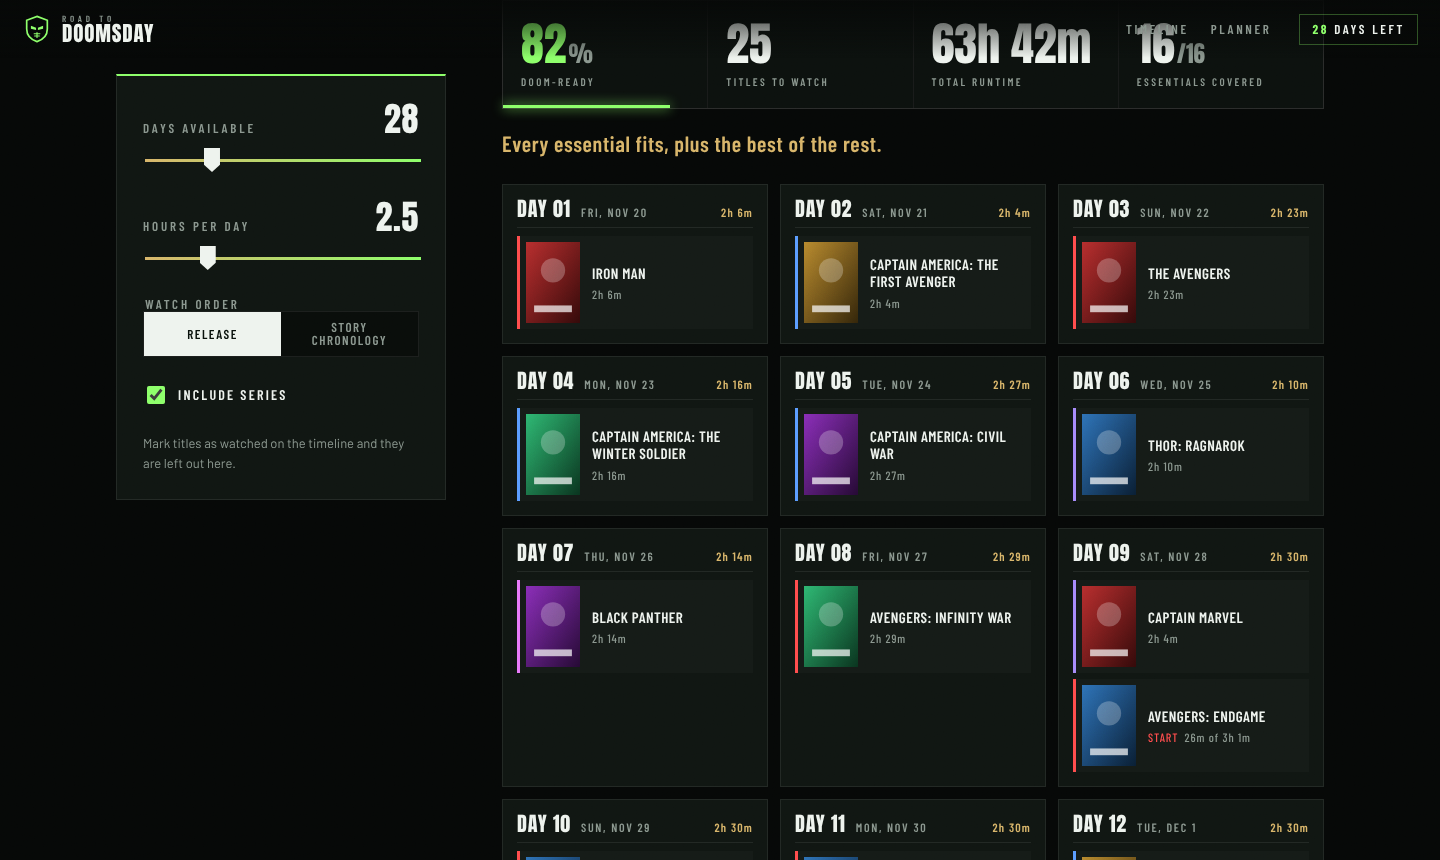
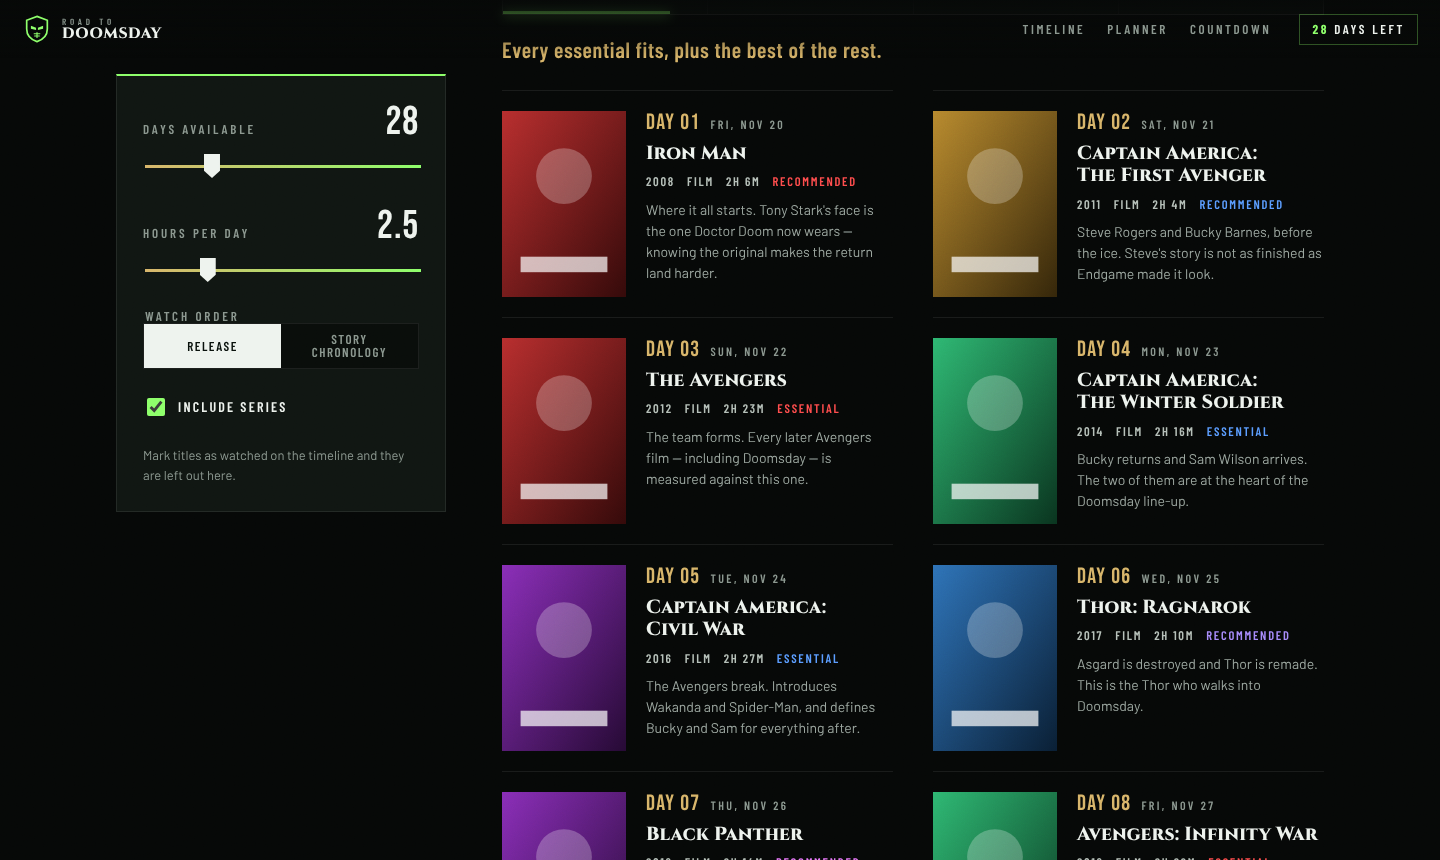
New typefaces and a poster listing for the watch plan
Headings move to Cinzel, numbers to Bebas Neue. The plan is now a
listing: large poster, day, title, details and why it matters.

Claude-Session: https://claude.ai/code/session_017rtG2dztGkZ4S7sDU2kgCq

diff --git a/src/styles.css b/src/styles.css
@@ -7,7 +7,9 @@
   --line: rgba(255, 255, 255, 0.08);
   --doom: #8dff6a;
   --gold: #d8b56a;
-  --display: "Anton", "Impact", "Haettenschweiler", "Arial Narrow Bold", sans-serif;
+  /* Headings: a chiselled, regal serif. Numbers: a tall poster face. */
+  --display: "Cinzel", "Trajan Pro", "Times New Roman", serif;
+  --num: "Bebas Neue", "Anton", "Impact", sans-serif;
   --cond: "Barlow Condensed", "Arial Narrow", sans-serif;
   --body: "Barlow", system-ui, -apple-system, "Segoe UI", sans-serif;
   --nav-h: 58px;
@@ -40,7 +42,7 @@ h1, h2, h3, h4, p { margin: 0; }
 .small { font-size: 13px; }
 
 .kicker {
-  font: 600 13px/1 var(--cond);
+  font: 600 12px/1.3 var(--display);
   letter-spacing: 0.32em;
   text-transform: uppercase;
   color: var(--gold);
@@ -90,7 +92,7 @@ h1, h2, h3, h4, p { margin: 0; }
 .brand { display: flex; align-items: center; gap: 10px; color: var(--doom); }
 .brand-text { display: grid; line-height: 1; color: var(--ink); }
 .brand-text small { font: 600 9px/1 var(--cond); letter-spacing: 0.42em; text-transform: uppercase; color: var(--dim); }
-.brand-text b { font: 400 21px/1 var(--display); letter-spacing: 0.04em; text-transform: uppercase; }
+.brand-text b { font: 800 15px/1 var(--display); letter-spacing: 0.04em; text-transform: uppercase; }
 .nav nav { display: flex; gap: 22px; margin-left: auto; }
 .nav nav a, .nav-count {
   font: 600 13px/1 var(--cond); letter-spacing: 0.2em; text-transform: uppercase; color: var(--dim);
@@ -132,11 +134,11 @@ h1, h2, h3, h4, p { margin: 0; }
 .hero-rest { display: grid; justify-items: center; gap: 22px; animation: fadeUp 1.1s 2.3s ease-out both; }
 .wordmark { display: grid; justify-items: center; line-height: 0.86; text-transform: uppercase; }
 .wm-top {
-  font: 600 clamp(15px, 2.4vw, 28px)/1 var(--cond); letter-spacing: 0.9em; margin-right: -0.9em;
+  font: 600 clamp(13px, 1.9vw, 24px)/1 var(--display); letter-spacing: 0.9em; margin-right: -0.9em;
   color: var(--ink); margin-bottom: clamp(8px, 1.4vw, 18px);
   animation: fadeUp 1.2s 1.7s ease-out both;
 }
-.wm-main { display: flex; font: 400 clamp(68px, 17.5vw, 270px)/0.86 var(--display); letter-spacing: 0.005em; filter: drop-shadow(0 8px 30px rgba(0, 0, 0, 0.75)); }
+.wm-main { display: flex; font: 900 clamp(38px, 11.4vw, 184px)/0.95 var(--display); letter-spacing: 0.005em; filter: drop-shadow(0 8px 30px rgba(0, 0, 0, 0.75)); }
 .wm-main span {
   background: linear-gradient(180deg, #ffffff 8%, #d4d4d0 40%, #77776f 53%, #ecece8 61%, #94948c 100%);
   -webkit-background-clip: text; background-clip: text; color: transparent;
@@ -145,9 +147,9 @@ h1, h2, h3, h4, p { margin: 0; }
 
 .count { display: flex; gap: clamp(10px, 2.4vw, 30px); margin-top: 6px; }
 .count-cell { display: grid; gap: 6px; min-width: clamp(58px, 9vw, 104px); padding-top: 12px; border-top: 1px solid rgba(141, 255, 106, 0.45); }
-.count-cell b { font: 400 clamp(34px, 5.4vw, 68px)/1 var(--display); font-variant-numeric: tabular-nums; }
+.count-cell b { font: 400 clamp(40px, 6vw, 78px)/1 var(--num); font-variant-numeric: tabular-nums; }
 .count-cell span { font: 600 11px/1 var(--cond); letter-spacing: 0.3em; text-transform: uppercase; color: var(--dim); }
-.count-over { font: 400 40px/1 var(--display); text-transform: uppercase; color: var(--doom); }
+.count-over { font: 800 30px/1 var(--display); text-transform: uppercase; color: var(--doom); }
 .cta { display: flex; flex-wrap: wrap; justify-content: center; gap: 12px; margin-top: 10px; }
 .scroll-cue { position: absolute; bottom: 22px; left: 50%; width: 22px; height: 36px; margin-left: -11px; border: 1px solid rgba(255, 255, 255, 0.35); border-radius: 12px; }
 .scroll-cue i { position: absolute; left: 50%; top: 7px; width: 2px; height: 7px; margin-left: -1px; background: var(--doom); animation: cue 1.8s ease-in-out infinite; }
@@ -156,7 +158,7 @@ h1, h2, h3, h4, p { margin: 0; }
 /* ── The tree ────────────────────────────────────────────────────────────── */
 .tree-section { position: relative; padding: clamp(70px, 9vw, 110px) 0 60px; }
 .tree-head { display: flex; flex-wrap: wrap; align-items: flex-end; justify-content: space-between; gap: 18px; padding: 0 clamp(16px, 3vw, 40px); margin-bottom: 46px; }
-.tree-head h2 { font: 400 clamp(30px, 4.4vw, 56px)/1 var(--display); text-transform: uppercase; letter-spacing: 0.02em; }
+.tree-head h2 { font: 800 clamp(22px, 3.1vw, 40px)/1.1 var(--display); text-transform: uppercase; letter-spacing: 0.02em; }
 .tree-head p { margin-top: 10px; color: var(--dim); font-size: 15px; }
 .seg small { margin-left: 4px; font-size: 0.85em; opacity: 0.55; }
 
@@ -192,9 +194,9 @@ h1, h2, h3, h4, p { margin: 0; }
   outline: 1px solid rgba(255, 255, 255, 0.14); outline-offset: -1px;
   transition: transform 0.25s cubic-bezier(0.2, 0.8, 0.2, 1), box-shadow 0.25s;
 }
-.art i { font: 400 15px/1 var(--display); font-style: normal; letter-spacing: 0.06em; color: rgba(255, 255, 255, 0.4); }
+.art i { font: 400 17px/1 var(--num); font-style: normal; letter-spacing: 0.06em; color: rgba(255, 255, 255, 0.4); }
 .art img { position: absolute; inset: 0; width: 100%; height: 100%; object-fit: cover; animation: fadeIn 0.5s both; }
-.art .num { position: absolute; z-index: 1; left: 0; top: 0; min-width: 24px; padding: 4px 6px 3px; font: 400 15px/1 var(--display); font-style: normal; letter-spacing: 0.02em; text-align: center; color: #06120a; background: #fff; box-shadow: 2px 2px 10px rgba(0, 0, 0, 0.6); }
+.art .num { position: absolute; z-index: 1; left: 0; top: 0; min-width: 24px; padding: 4px 6px 3px; font: 400 17px/1 var(--num); font-style: normal; letter-spacing: 0.02em; text-align: center; color: #06120a; background: #fff; box-shadow: 2px 2px 10px rgba(0, 0, 0, 0.6); }
 .tile.lit .num, .tile:hover .num { background: var(--doom); }
 .art u { position: absolute; z-index: 1; right: 0; top: 0; padding: 2px 4px; font: 600 10px/1 var(--body); text-decoration: none; color: #06120a; background: var(--doom); }
 .tile b {
@@ -217,7 +219,7 @@ h1, h2, h3, h4, p { margin: 0; }
 }
 .doom:hover, .doom.sel { transform: translate(-50%, -50%) scale(1.05); }
 .doom small { font: 600 10px/1 var(--cond); letter-spacing: 0.44em; margin-right: -0.44em; color: var(--ink); }
-.doom b { font: 400 clamp(18px, 2vw, 27px)/1 var(--display); color: var(--doom); }
+.doom b { font: 800 clamp(12px, 1.2vw, 15px)/1 var(--display); color: var(--doom); }
 .doom span { font: 600 9px/1 var(--cond); letter-spacing: 0.22em; color: var(--gold); }
 
 .hover-card {
@@ -226,7 +228,7 @@ h1, h2, h3, h4, p { margin: 0; }
   box-shadow: 0 18px 50px rgba(0, 0, 0, 0.7); animation: fadeIn 0.18s both;
 }
 .hover-card.flip { transform: translateX(-100%); }
-.hover-card b { font: 400 20px/1.05 var(--display); text-transform: uppercase; letter-spacing: 0.02em; }
+.hover-card b { font: 800 15px/1.2 var(--display); text-transform: uppercase; letter-spacing: 0.02em; }
 .hover-card span { font: 600 11px/1 var(--cond); letter-spacing: 0.18em; text-transform: uppercase; color: var(--gold); }
 .hover-card p { font-size: 13.5px; line-height: 1.45; color: #c4cdc6; }
 @media (hover: none) { .hover-card { display: none; } }
@@ -249,7 +251,7 @@ h1, h2, h3, h4, p { margin: 0; }
 .drawer-x:hover { color: var(--ink); }
 .drawer-scroll { flex: 1; overflow-y: auto; padding: 34px 28px 24px; animation: rise 0.5s both; }
 .drawer-lane { font: 700 12px/1 var(--cond); letter-spacing: 0.3em; text-transform: uppercase; color: var(--c); }
-.drawer h3 { margin: 12px 0 14px; font: 400 clamp(30px, 5vw, 40px)/1 var(--display); text-transform: uppercase; letter-spacing: 0.01em; text-wrap: balance; }
+.drawer h3 { margin: 12px 0 14px; font: 800 clamp(22px, 3.4vw, 28px)/1.15 var(--display); text-transform: uppercase; letter-spacing: 0.01em; text-wrap: balance; }
 .drawer-meta { display: flex; flex-wrap: wrap; gap: 6px; }
 .drawer-meta span { padding: 5px 9px; border: 1px solid var(--line); font: 600 12px/1 var(--cond); letter-spacing: 0.14em; text-transform: uppercase; color: #c2ccc5; }
 .weight { display: flex; align-items: center; gap: 12px; margin-top: 18px; font: 700 12px/1 var(--cond); letter-spacing: 0.2em; text-transform: uppercase; color: var(--c); }
@@ -273,12 +275,12 @@ h1, h2, h3, h4, p { margin: 0; }
 /* ── Planner ─────────────────────────────────────────────────────────────── */
 .planner { position: relative; padding: clamp(70px, 10vw, 130px) clamp(18px, 4vw, 56px) 90px; max-width: 1320px; margin: 0 auto; }
 .sec-head { display: grid; gap: 14px; margin-bottom: 44px; }
-.sec-head h2 { font: 400 clamp(40px, 7vw, 88px)/0.95 var(--display); text-transform: uppercase; text-wrap: balance; }
+.sec-head h2 { font: 800 clamp(28px, 4.8vw, 62px)/1.05 var(--display); text-transform: uppercase; text-wrap: balance; }
 .planner-grid { display: grid; grid-template-columns: 330px 1fr; gap: clamp(24px, 4vw, 56px); align-items: start; }
 .controls { position: sticky; top: calc(var(--nav-h) + 16px); display: grid; gap: 26px; padding: 26px; background: var(--panel); border: 1px solid var(--line); border-top: 2px solid var(--doom); }
 .slider { display: grid; gap: 10px; }
 .slider > span, fieldset legend { display: flex; justify-content: space-between; align-items: baseline; width: 100%; font: 600 13px/1 var(--cond); letter-spacing: 0.22em; text-transform: uppercase; color: var(--dim); }
-.slider b { font: 400 34px/1 var(--display); color: var(--ink); letter-spacing: 0.02em; }
+.slider b { font: 400 40px/1 var(--num); color: var(--ink); letter-spacing: 0.02em; }
 fieldset { border: 0; margin: 0; padding: 0; display: grid; gap: 10px; }
 fieldset .seg { display: grid; grid-template-columns: 1fr 1fr; }
 input[type="range"] { -webkit-appearance: none; appearance: none; width: 100%; height: 24px; background: none; cursor: pointer; }
@@ -292,7 +294,7 @@ input[type="range"]::-moz-range-thumb { width: 16px; height: 24px; border: 0; bo
 
 .stats { display: grid; grid-template-columns: repeat(4, 1fr); gap: 1px; background: var(--line); border: 1px solid var(--line); }
 .stat { display: grid; gap: 8px; padding: 20px 18px; background: var(--bg-2); }
-.stat b { font: 400 clamp(28px, 3.6vw, 46px)/1 var(--display); font-variant-numeric: tabular-nums; }
+.stat b { font: 400 clamp(32px, 4vw, 52px)/1 var(--num); font-variant-numeric: tabular-nums; }
 .stat b small { font-size: 0.5em; color: var(--dim); margin-left: 2px; }
 .stat span { font: 600 11px/1.2 var(--cond); letter-spacing: 0.22em; text-transform: uppercase; color: var(--dim); }
 .stat-ring { position: relative; }
@@ -300,25 +302,28 @@ input[type="range"]::-moz-range-thumb { width: 16px; height: 24px; border: 0; bo
 .stat-ring::after { content: ""; position: absolute; left: 0; bottom: 0; height: 3px; width: calc(var(--p) * 1%); background: var(--doom); box-shadow: 0 0 12px var(--doom); transition: width 0.5s cubic-bezier(0.2, 0.8, 0.2, 1); }
 .verdict { margin: 20px 0 26px; font: 600 clamp(18px, 2vw, 22px)/1.3 var(--cond); letter-spacing: 0.03em; color: var(--gold); }
 
-.days { list-style: none; margin: 0 0 18px; padding: 0; display: grid; grid-template-columns: repeat(auto-fill, minmax(260px, 1fr)); gap: 12px; }
-.day { display: grid; align-content: start; gap: 6px; padding: 14px; background: var(--panel); border: 1px solid var(--line); animation: rise 0.45s both; }
-.day header { display: flex; align-items: baseline; gap: 10px; padding-bottom: 8px; margin-bottom: 2px; border-bottom: 1px solid var(--line); }
-.day header b { font: 400 20px/1 var(--display); text-transform: uppercase; letter-spacing: 0.04em; }
-.day header span { font: 600 12px/1 var(--cond); letter-spacing: 0.14em; text-transform: uppercase; color: var(--dim); }
-.day header em { margin-left: auto; font: 600 12px/1 var(--cond); font-style: normal; letter-spacing: 0.1em; color: var(--gold); }
-.slot { display: grid; grid-template-columns: 54px 1fr; align-items: center; gap: 12px; padding: 6px 10px 6px 6px; text-align: left; border-left: 3px solid var(--c); background: rgba(255, 255, 255, 0.025); transition: background 0.2s; }
-.slot-art { position: relative; width: 54px; aspect-ratio: 2 / 3; overflow: hidden; background: linear-gradient(150deg, color-mix(in srgb, var(--c) 55%, #0c100e), #0b0f0d 80%); }
-.slot-art img { position: absolute; inset: 0; width: 100%; height: 100%; object-fit: cover; animation: fadeIn 0.5s both; }
-.slot-text { display: grid; gap: 6px; min-width: 0; }
-.slot-static { --c: var(--doom); background: none; }
-@keyframes fadeIn { from { opacity: 0; } }
-.slot:hover { background: rgba(255, 255, 255, 0.09); }
-.slot-title { font: 600 15px/1.15 var(--cond); letter-spacing: 0.03em; text-transform: uppercase; }
-.slot-meta { font: 500 12px/1 var(--cond); letter-spacing: 0.08em; color: var(--dim); }
-.slot-meta i { font-style: normal; text-transform: uppercase; color: var(--c); margin-right: 6px; }
-.day-doom { border-color: var(--doom); background: radial-gradient(circle at 80% 120%, rgba(141, 255, 106, 0.22), transparent 70%), var(--panel); }
-.day-doom header b, .day-doom p { color: var(--doom); }
-.day-doom p { font: 400 26px/1 var(--display); text-transform: uppercase; padding: 6px 0; }
+/* The plan, as a listing: poster, then what it is and why it is on the list. */
+.listing { list-style: none; margin: 0 0 18px; padding: 0; display: grid; grid-template-columns: repeat(auto-fill, minmax(380px, 1fr)); column-gap: 40px; }
+.item { border-top: 1px solid var(--line); animation: rise 0.45s both; }
+.item > button, .item > div { display: grid; grid-template-columns: 124px 1fr; gap: 20px; width: 100%; padding: 20px 0; text-align: left; align-items: start; }
+.item-art { position: relative; aspect-ratio: 2 / 3; overflow: hidden; background: linear-gradient(150deg, color-mix(in srgb, var(--c) 55%, #0c100e), #0b0f0d 80%); transition: transform 0.3s cubic-bezier(0.2, 0.8, 0.2, 1), box-shadow 0.3s; }
+.item-art img { position: absolute; inset: 0; width: 100%; height: 100%; object-fit: cover; animation: fadeIn 0.5s both; }
+.item > button:hover .item-art { transform: scale(1.04); box-shadow: 0 16px 40px rgba(0, 0, 0, 0.7), 0 0 0 1px rgba(255, 255, 255, 0.5); }
+.item-body { display: grid; gap: 9px; min-width: 0; padding-top: 2px; }
+.item-day { display: flex; flex-wrap: wrap; align-items: baseline; gap: 4px 10px; font: 600 12px/1 var(--cond); letter-spacing: 0.2em; text-transform: uppercase; color: var(--dim); }
+.item-day b { font: 400 22px/0.9 var(--num); letter-spacing: 0.06em; color: var(--gold); }
+.item-title { font: 800 19px/1.2 var(--display); letter-spacing: 0.01em; text-wrap: balance; transition: color 0.2s; }
+.item > button:hover .item-title { color: var(--doom); }
+.item-meta { display: flex; flex-wrap: wrap; gap: 4px 12px; font: 600 12.5px/1.3 var(--cond); letter-spacing: 0.14em; text-transform: uppercase; color: #b6c0b9; }
+.item-meta i { font-style: normal; color: var(--c); }
+.item-meta .part { color: var(--doom); }
+.item-why { font-size: 14px; line-height: 1.5; color: #9ba69f; display: -webkit-box; -webkit-line-clamp: 4; -webkit-box-orient: vertical; overflow: hidden; }
+.item-doom .item-title { color: var(--doom); }
+@media (max-width: 480px) {
+  .listing { grid-template-columns: 1fr; }
+  .item > button, .item > div { grid-template-columns: 92px 1fr; gap: 14px; }
+  .item-why { -webkit-line-clamp: 3; }
+}
 .skipped { margin-top: 22px; border-top: 1px solid var(--line); padding-top: 16px; }
 .skipped summary { cursor: pointer; font: 600 13px/1 var(--cond); letter-spacing: 0.2em; text-transform: uppercase; color: var(--dim); margin-bottom: 14px; }
 .skipped summary:hover { color: var(--ink); }
@@ -343,9 +348,9 @@ input[type="range"]::-moz-range-thumb { width: 16px; height: 24px; border: 0; bo
 .cd-date { color: var(--gold); }
 .cd-clock { display: flex; gap: clamp(14px, 4vw, 64px); text-shadow: 0 6px 40px rgba(0, 0, 0, 0.9); }
 .cd-clock div { display: grid; gap: 10px; min-width: 2.2ch; }
-.cd-clock b { font: 400 clamp(54px, 15vw, 230px)/0.9 var(--display); font-variant-numeric: tabular-nums; color: #fff; }
+.cd-clock b { font: 400 clamp(60px, 17vw, 260px)/0.9 var(--num); font-variant-numeric: tabular-nums; color: #fff; }
 .cd-clock span { font: 600 clamp(10px, 1.1vw, 14px)/1 var(--cond); letter-spacing: 0.4em; margin-right: -0.4em; text-transform: uppercase; color: rgba(255, 255, 255, 0.7); }
-.cd-over { font: 400 clamp(48px, 11vw, 160px)/1 var(--display); text-transform: uppercase; color: #fff; }
+.cd-over { font: 800 clamp(34px, 8vw, 120px)/1 var(--display); text-transform: uppercase; color: #fff; }
 .cd-back { position: absolute; top: 20px; right: 22px; font: 600 12px/1 var(--cond); letter-spacing: 0.24em; text-transform: uppercase; color: rgba(255, 255, 255, 0.6); }
 .cd-back:hover { color: #fff; }
 

diff --git a/src/components/Planner.tsx b/src/components/Planner.tsx
@@ -1,6 +1,6 @@
 import { useMemo, useState } from "react";
 import { daysToDoom } from "../App";
-import { BY_ID, LANE_BY_ID, fmtMin } from "../data";
+import { BY_ID, LANE_BY_ID, TIER_LABEL, fmtMin, tierOf } from "../data";
 import { buildPlan } from "../planner";
 import { Poster, usePosters } from "../posters";
 
@@ -89,42 +89,44 @@ export function Planner({ watched, onSelect }: Props) {
           </div>
           <p className="verdict">{verdict}</p>
 
-          <ol className="days">
-            {plan.days.map((slots, i) =>
-              slots.length ? (
-                <li key={i} className="day">
-                  <header>
-                    <b>Day {String(i + 1).padStart(2, "0")}</b>
-                    <span>{dateOf(i)}</span>
-                    <em>{fmtMin(slots.reduce((n, s) => n + s.minutes, 0))}</em>
-                  </header>
-                  {slots.map((s, k) => {
-                    const t = BY_ID[s.id];
-                    return (
-                      <button key={k} className="slot" style={{ ["--c" as string]: LANE_BY_ID[t.lane].color }} onClick={() => onSelect(t.id)}>
-                        <span className="slot-art">
-                          <Poster src={t.poster || posters[t.id]} />
+          <ol className="listing">
+            {plan.days.flatMap((slots, i) =>
+              slots.map((s, k) => {
+                const t = BY_ID[s.id];
+                const lane = LANE_BY_ID[t.lane];
+                return (
+                  <li key={`${i}-${k}`} className="item" style={{ ["--c" as string]: lane.color }}>
+                    <button onClick={() => onSelect(t.id)}>
+                      <span className="item-art"><Poster src={t.poster || posters[t.id]} /></span>
+                      <span className="item-body">
+                        <span className="item-day"><b>Day {String(i + 1).padStart(2, "0")}</b>{dateOf(i)}</span>
+                        <span className="item-title">{t.title}</span>
+                        <span className="item-meta">
+                          <span>{t.year}</span>
+                          <span>{t.kind === "film" ? "Film" : t.kind === "series" ? "Series" : "Special"}</span>
+                          {s.part === "whole" ? (
+                            <span>{fmtMin(t.min)}</span>
+                          ) : (
+                            <span className="part">{PART[s.part]} · {fmtMin(s.minutes)} of {fmtMin(t.min)}</span>
+                          )}
+                          <i>{TIER_LABEL[tierOf(t)]}</i>
                         </span>
-                        <span className="slot-text">
-                          <span className="slot-title">{t.title}</span>
-                          <span className="slot-meta">
-                            {PART[s.part] && <i>{PART[s.part]}</i>}
-                            {fmtMin(s.minutes)}
-                            {s.part !== "whole" && <> of {fmtMin(t.min)}</>}
-                          </span>
-                        </span>
-                      </button>
-                    );
-                  })}
-                </li>
-              ) : null
+                        <span className="item-why">{t.why}</span>
+                      </span>
+                    </button>
+                  </li>
+                );
+              })
             )}
             {plan.picked.length > 0 && (
-              <li className="day day-doom">
-                <header><b>Then</b><span>18 December 2026</span></header>
-                <div className="slot slot-static">
-                  <span className="slot-art"><Poster src={posters.doomsday} /></span>
-                  <p>Avengers: Doomsday</p>
+              <li className="item item-doom" style={{ ["--c" as string]: "var(--doom)" }}>
+                <div>
+                  <span className="item-art"><Poster src={posters.doomsday} /></span>
+                  <span className="item-body">
+                    <span className="item-day"><b>Then</b>18 December 2026</span>
+                    <span className="item-title">Avengers: Doomsday</span>
+                    <span className="item-why">You made it. Every road you just watched ends here.</span>
+                  </span>
                 </div>
               </li>
             )}

diff --git a/countdown/index.html b/countdown/index.html
@@ -9,7 +9,7 @@
     <link rel="icon" type="image/svg+xml" href="../favicon.svg" />
     <link rel="preconnect" href="https://fonts.googleapis.com" />
     <link rel="preconnect" href="https://fonts.gstatic.com" crossorigin />
-    <link href="https://fonts.googleapis.com/css2?family=Anton&family=Barlow+Condensed:wght@500;600;700&family=Barlow:wght@400;500;600&display=swap" rel="stylesheet" />
+    <link href="https://fonts.googleapis.com/css2?family=Cinzel:wght@600;800;900&family=Bebas+Neue&family=Barlow+Condensed:wght@500;600;700&family=Barlow:wght@400;500;600&display=swap" rel="stylesheet" />
   </head>
   <body>
     <div id="root"></div>

diff --git a/index.html b/index.html
@@ -9,7 +9,7 @@
     <link rel="icon" type="image/svg+xml" href="./favicon.svg" />
     <link rel="preconnect" href="https://fonts.googleapis.com" />
     <link rel="preconnect" href="https://fonts.gstatic.com" crossorigin />
-    <link href="https://fonts.googleapis.com/css2?family=Anton&family=Barlow+Condensed:wght@500;600;700&family=Barlow:wght@400;500;600&display=swap" rel="stylesheet" />
+    <link href="https://fonts.googleapis.com/css2?family=Cinzel:wght@600;800;900&family=Bebas+Neue&family=Barlow+Condensed:wght@500;600;700&family=Barlow:wght@400;500;600&display=swap" rel="stylesheet" />
   </head>
   <body>
     <div id="root"></div>
